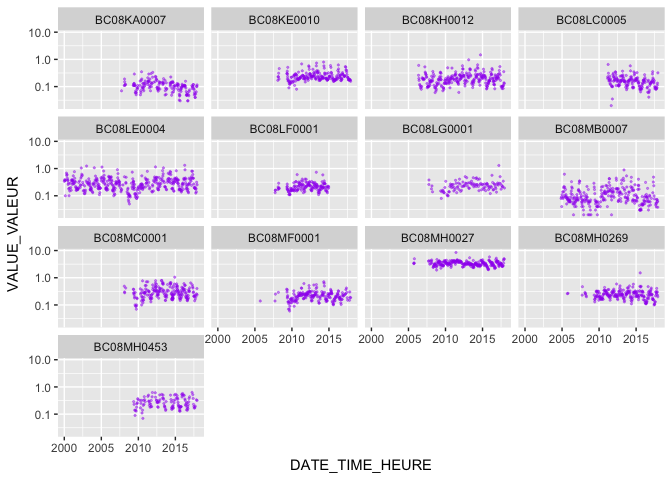
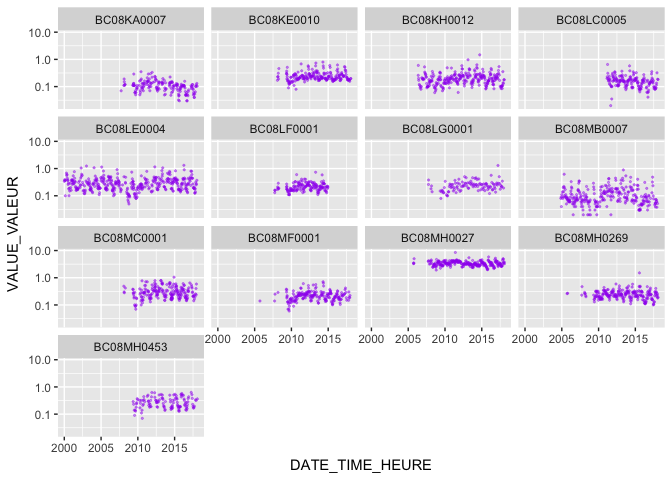
Fix and render readme

diff --git a/README.md b/README.md
@@ -1,14 +1,19 @@
 
-<a id="devex-badge" rel="Exploration" href="https://github.com/BCDevExchange/assets/blob/master/README.md"><img alt="Being designed and built, but in the lab. May change, disappear, or be buggy." style="border-width:0" src="https://assets.bcdevexchange.org/images/badges/exploration.svg" title="Being designed and built, but in the lab. May change, disappear, or be buggy." /></a> [![Travis-CI Build Status](https://travis-ci.org/bcgov/canwqdata.svg?branch=master)](https://travis-ci.org/bcgov/canwqdata)
+<a id="devex-badge" rel="Exploration" href="https://github.com/BCDevExchange/assets/blob/master/README.md"><img alt="Being designed and built, but in the lab. May change, disappear, or be buggy." style="border-width:0" src="https://assets.bcdevexchange.org/images/badges/exploration.svg" title="Being designed and built, but in the lab. May change, disappear, or be buggy." /></a>
+[![Travis-CI Build
+Status](https://travis-ci.org/bcgov/canwqdata.svg?branch=master)](https://travis-ci.org/bcgov/canwqdata)
 
-canwqdata
-=========
+# canwqdata
 
-An R 📦 to download open water quality data from Environment and Climate Change Canada's [National Long-term Water Quality Monitoring Data](http://donnees.ec.gc.ca/data/substances/monitor/national-long-term-water-quality-monitoring-data/).
+An R 📦 to download open water quality data from Environment and Climate
+Change Canada’s [National Long-term Water Quality Monitoring
+Data](http://donnees.ec.gc.ca/data/substances/monitor/national-long-term-water-quality-monitoring-data/).
 
 ### Features
 
-This package is designed to get Canadian Water Quality Monitoring data into R quickly and easily. You can get data from a single monitoring station, multiple stations, or from an entire basin.
+This package is designed to get Canadian Water Quality Monitoring data
+into R quickly and easily. You can get data from a single monitoring
+station, multiple stations, or from an entire basin.
 
 ### Installation
 
@@ -24,52 +29,54 @@ First load the package:
 library(canwqdata)
 ```
 
-The first thing you will probably want to do is get a list of the available sites and associated metadata:
+The first thing you will probably want to do is get a list of the
+available sites and associated metadata:
 
 ``` r
 sites <- wq_sites()
 
 sites
-#> # A tibble: 214 x 16
+#> # A tibble: 313 x 16
 #>    SITE_NO SITE_NAME SITE_NOM_FR SITE_TYPE SITE_DESC SITE_DESC_FR LATITUDE
 #>    <chr>   <chr>     <chr>       <chr>     <chr>     <chr>           <dbl>
-#>  1 72      BEAUHARN… CANAL DE B… RIVER/RI… <NA>      <NA>             45.2
-#>  2 75      ST.LAWRE… FLEUVE SAI… RIVER/RI… <NA>      <NA>             45.9
-#>  3 78      ST.LAWRE… FLEUVE SAI… RIVER/RI… <NA>      <NA>             45.4
-#>  4 00BR01… SAINT JO… RIVIÈRE SA… RIVER/RI… <NA>      <NA>             47.4
-#>  5 00BR01… AROOSTOO… RIVIÈRE AR… RIVER/RI… <NA>      <NA>             46.8
-#>  6 00BR01… TOBIQUE … RIVIÈRE TO… RIVER/RI… <NA>      <NA>             46.8
-#>  7 00BR01… BIG PRES… RUISSEAU B… RIVER/RI… <NA>      <NA>             46.4
-#>  8 00BR01… SAINT JO… RIVIÈRE SA… RIVER/RI… <NA>      <NA>             46.0
-#>  9 00BR01… NASHWAAK… RIVIÈRE NA… RIVER/RI… <NA>      <NA>             46.0
-#> 10 00BR01… SAINT JO… RIVIÈRE SA… RIVER/RI… <NA>      <NA>             45.6
-#> # ... with 204 more rows, and 9 more variables: LONGITUDE <dbl>,
+#>  1 000000… BEAUHARN… CANAL DE B… RIVER/RI… <NA>      <NA>             45.2
+#>  2 000000… ST.LAWRE… FLEUVE SAI… RIVER/RI… <NA>      <NA>             45.9
+#>  3 000000… ST.LAWRE… FLEUVE SAI… RIVER/RI… <NA>      <NA>             45.4
+#>  4 023300… ETCHEMIN… RIVIÈRE ET… RIVER/RI… <NA>      <NA>             46.8
+#>  5 023400… CHAUDIÈR… RIVIÈRE CH… RIVER/RI… <NA>      <NA>             46.7
+#>  6 024000… BÉCANCOU… RIVIÈRE BÉ… RIVER/RI… <NA>      <NA>             46.4
+#>  7 030200… MAGOG RI… RIVIÈRE MA… RIVER/RI… <NA>      <NA>             45.3
+#>  8 030203… COATICOO… RIVIÈRE CO… RIVER/RI… <NA>      <NA>             45.3
+#>  9 030400… RICHELIE… RIVIÈRE RI… RIVER/RI… <NA>      <NA>             45.4
+#> 10 030400… RICHELIE… RIVIÈRE RI… RIVER/RI… <NA>      <NA>             45.1
+#> # ... with 303 more rows, and 9 more variables: LONGITUDE <dbl>,
 #> #   DATUM <chr>, PROV_TERR <chr>, PEARSEDA <chr>, PEARSEDA_FR <chr>,
 #> #   OCEANDA <chr>, OCEANDA_FR <chr>, DATA_URL <chr>, DATA_URL_FR <chr>
 ```
 
 Then get some data from a particular station:
 
-`AL07AA0015` is a site in Alberta called *Athabasca River above Athabasca Falls*
+`AL07AA0015` is a site in Alberta called *Athabasca River above
+Athabasca Falls*
 
 ``` r
-athabasca_falls <- dl_sites("AL07AA0015")
+athabasca_falls <- wq_site_data("AL07AA0015")
 
 athabasca_falls
-#> # A tibble: 7,931 x 11
+#> # A tibble: 9,955 x 11
 #>    SITE_NO  DATE_TIME_HEURE     FLAG_MARQUEUR VALUE_VALEUR SDL_LDE MDL_LDM
 #>    <chr>    <dttm>              <chr>                <dbl>   <dbl>   <dbl>
 #>  1 AL07AA0… 2000-01-11 13:05:00 <NA>             93.2           NA      NA
 #>  2 AL07AA0… 2000-01-11 13:05:00 <                 0.0200        NA      NA
 #>  3 AL07AA0… 2000-01-11 13:05:00 <                 0.00500       NA      NA
-#>  4 AL07AA0… 2000-01-11 13:05:00 <                 0.000100      NA      NA
-#>  5 AL07AA0… 2000-01-11 13:05:00 <NA>              0.0650        NA      NA
-#>  6 AL07AA0… 2000-01-11 13:05:00 <                 0.500         NA      NA
-#>  7 AL07AA0… 2000-01-11 13:05:00 <                 0.00200       NA      NA
-#>  8 AL07AA0… 2000-01-11 13:05:00 <                 0.00100       NA      NA
-#>  9 AL07AA0… 2000-01-11 13:05:00 <NA>             29.0           NA      NA
-#> 10 AL07AA0… 2000-01-11 13:05:00 <NA>              0.451         NA      NA
-#> # ... with 7,921 more rows, and 5 more variables: VMV_CODE <int>,
+#>  4 AL07AA0… 2000-01-11 13:05:00 <NA>              0.            NA      NA
+#>  5 AL07AA0… 2000-01-11 13:05:00 <                 0.000100      NA      NA
+#>  6 AL07AA0… 2000-01-11 13:05:00 <NA>              0.0650        NA      NA
+#>  7 AL07AA0… 2000-01-11 13:05:00 <                 0.500         NA      NA
+#>  8 AL07AA0… 2000-01-11 13:05:00 <NA>            114.            NA      NA
+#>  9 AL07AA0… 2000-01-11 13:05:00 <                 0.00200       NA      NA
+#> 10 AL07AA0… 2000-01-11 13:05:00 <                 0.00100       NA      NA
+#> # ... with 9,945 more rows, and 5 more variables: VMV_CODE <chr>,
 #> #   UNIT_UNITE <chr>, VARIABLE <chr>, VARIABLE_FR <chr>,
 #> #   STATUS_STATUT <chr>
 ```
@@ -77,28 +84,29 @@ athabasca_falls
 We can also get data from more than one station:
 
 ``` r
-dl_sites(c("YT09FC0002", "00BR01AG0008"))
-#> # A tibble: 2,092 x 11
+wq_site_data(c("YT09FC0002", "SA05JM0014"))
+#> # A tibble: 20,854 x 11
 #>    SITE_NO  DATE_TIME_HEURE     FLAG_MARQUEUR VALUE_VALEUR SDL_LDE MDL_LDM
 #>    <chr>    <dttm>              <chr>                <dbl>   <dbl>   <dbl>
-#>  1 YT09FC0… 2007-08-27 16:35:00 <NA>              83.9     0.500        NA
-#>  2 YT09FC0… 2007-08-27 16:35:00 <NA>              74.6     0.200        NA
-#>  3 YT09FC0… 2007-08-27 16:35:00 <NA>               0.132   0.00100      NA
-#>  4 YT09FC0… 2007-08-27 16:35:00 <NA>               0.790   0.0100       NA
-#>  5 YT09FC0… 2007-08-27 16:35:00 <NA>              61.5     0.0500       NA
-#>  6 YT09FC0… 2007-08-27 16:35:00 <NA>               0.0120  0.00100      NA
-#>  7 YT09FC0… 2007-08-27 16:35:00 <NA>               0.00500 0.00100      NA
-#>  8 YT09FC0… 2007-08-27 16:35:00 <NA>               6.00    0.500        NA
-#>  9 YT09FC0… 2007-08-27 16:35:00 <NA>               0.00900 0.00100      NA
-#> 10 YT09FC0… 2007-08-27 16:35:00 <NA>              30.6     0.100        NA
-#> # ... with 2,082 more rows, and 5 more variables: VMV_CODE <int>,
+#>  1 SA05JM0… 2000-03-07 12:45:00 <NA>               0.           NA      NA
+#>  2 SA05JM0… 2000-03-07 12:45:00 <NA>             253.           NA      NA
+#>  3 SA05JM0… 2000-03-07 12:45:00 <NA>               0.0470       NA      NA
+#>  4 SA05JM0… 2000-03-07 12:45:00 <NA>               0.607        NA      NA
+#>  5 SA05JM0… 2000-03-07 12:45:00 <NA>               0.0790       NA      NA
+#>  6 SA05JM0… 2000-03-07 12:45:00 <NA>               0.00100      NA      NA
+#>  7 SA05JM0… 2000-03-07 12:45:00 <NA>               0.0390       NA      NA
+#>  8 SA05JM0… 2000-03-07 12:45:00 <NA>               0.0569       NA      NA
+#>  9 SA05JM0… 2000-03-07 12:45:00 <                  0.500        NA      NA
+#> 10 SA05JM0… 2000-03-07 12:45:00 <                  0.0500       NA      NA
+#> # ... with 20,844 more rows, and 5 more variables: VMV_CODE <chr>,
 #> #   UNIT_UNITE <chr>, VARIABLE <chr>, VARIABLE_FR <chr>,
 #> #   STATUS_STATUT <chr>
 ```
 
 Or an entire basin:
 
-The basins are in the `PEARSEDA` column of the data.frame returned by `wq_sites()`:
+The basins are in the `PEARSEDA` column of the data.frame returned by
+`wq_sites()`:
 
 ``` r
 basins <- sort(unique(sites$PEARSEDA))
@@ -116,7 +124,7 @@ basins
 #> [21] "ST. LAWRENCE"              "WINNIPEG"                 
 #> [23] "YUKON"
 
-fraser <- dl_basin("FRASER-LOWER MAINLAND")
+fraser <- wq_basin_data("FRASER-LOWER MAINLAND")
 ```
 
 Do some quick summary stats of the fraser dataset:
@@ -133,45 +141,47 @@ fraser %>%
 #> # A tibble: 13 x 5
 #>    SITE_NO  first_date          latest_date         n_params total_samples
 #>    <chr>    <dttm>              <dttm>                 <int>         <int>
-#>  1 BC08KA0… 2000-01-12 07:45:00 2017-12-05 13:54:00      108         22937
-#>  2 BC08KE0… 2000-01-05 00:00:00 2017-12-05 09:30:00       76         21155
-#>  3 BC08KH0… 2006-05-11 13:07:00 2017-12-07 10:50:00      142         16784
-#>  4 BC08LC0… 2011-02-24 09:45:00 2017-12-11 13:38:00       68          9542
-#>  5 BC08LE0… 2000-01-04 10:00:00 2017-12-06 11:00:00      112         20956
+#>  1 BC08KA0… 2000-01-12 07:45:00 2018-01-22 14:03:00      108         23161
+#>  2 BC08KE0… 2000-01-05 00:00:00 2018-01-29 10:00:00       76         21413
+#>  3 BC08KH0… 2006-05-11 13:07:00 2018-01-21 10:45:00      142         17039
+#>  4 BC08LC0… 2011-02-24 09:45:00 2018-02-01 12:20:00       69          9770
+#>  5 BC08LE0… 2000-01-04 10:00:00 2018-01-10 12:00:00      112         21202
 #>  6 BC08LF0… 2000-01-05 12:00:00 2014-12-15 10:20:00       89         18410
-#>  7 BC08LG0… 2003-06-24 10:45:00 2017-12-18 10:40:00       71          8995
-#>  8 BC08MB0… 2004-11-15 12:00:00 2017-12-06 09:30:00      105         19058
-#>  9 BC08MC0… 2000-04-18 16:30:00 2017-12-06 14:57:00      107         20153
-#> 10 BC08MF0… 2000-01-04 14:10:00 2017-12-06 08:20:00      128         20374
-#> 11 BC08MH0… 2000-01-07 12:16:00 2017-12-05 12:30:00      115         30018
-#> 12 BC08MH0… 2004-03-03 14:40:00 2017-12-06 08:20:00      135         23014
-#> 13 BC08MH0… 2008-09-02 16:25:00 2017-12-06 13:55:00      107         11235
+#>  7 BC08LG0… 2003-06-24 10:45:00 2017-12-18 10:40:00       71          9067
+#>  8 BC08MB0… 2004-11-15 12:00:00 2018-01-09 12:32:00      105         19324
+#>  9 BC08MC0… 2000-04-18 16:30:00 2017-12-18 08:21:00      107         20282
+#> 10 BC08MF0… 2000-01-04 14:10:00 2017-12-18 13:09:00      128         20467
+#> 11 BC08MH0… 2000-01-07 12:16:00 2018-02-01 11:30:00      115         30471
+#> 12 BC08MH0… 2004-03-03 14:40:00 2018-01-31 10:52:00      135         23286
+#> 13 BC08MH0… 2008-09-02 16:25:00 2018-01-31 11:15:00      107         11329
 ```
 
-We can also look at metadata that helps us understand what is in the different columns.
+We can also look at metadata that helps us understand what is in the
+different columns.
 
-`wq_params()` returns a list of water quality parameters (variables), and related data - units, methods, codes, etc:
+`wq_params()` returns a list of water quality parameters (variables),
+and related data - units, methods, codes, etc:
 
 ``` r
 params <- wq_params()
 glimpse(params)
-#> Observations: 1,155
+#> Observations: 1,613
 #> Variables: 12
-#> $ VMV_CODE         <int> 77, 78, 79, 80, 157, 160, 201, 202, 210, 211,...
-#> $ VARIABLE_CODE    <int> 635, 365, 4541, 414, 864, 1073, 837, 837, 762...
-#> $ VARIABLE         <chr> "NITROGEN TOTAL", "ALKALINITY TOTAL HCO3", "C...
-#> $ VARIABLE_FR      <chr> "AZOTE TOTAL", "ALCALINITÉ TOTALE HCO3", "CHL...
-#> $ VARIABLE_TYPE    <chr> "NITROGEN", "PHYSICAL", "CHLOROPHYLL", "CHLOR...
-#> $ VARIABLE_TYPE_FR <chr> "AZOTE", "PHYSIQUE", "CHLOROPHYLLE", "CHLOROP...
-#> $ UNIT_UNITÉ       <chr> "MG/L", "MG/L", "UG/L", "UG/L", "NTU", "MG/L"...
-#> $ UNIT_NAME        <chr> "MILLIGRAMS PER LITRE", "MILLIGRAMS PER LITRE...
-#> $ UNITÉ_NOM        <chr> "MILLIGRAMMES PAR LITRE", "MILLIGRAMMES PAR L...
-#> $ METHOD_CODE      <int> 23, 30, 35, 41, 188, 189, 8, 9, 15, 16, 617, ...
-#> $ METHOD_TITLE     <chr> "TOTAL NITROGEN MEASUREMENT BY PERSULFATE OXI...
-#> $ MÉTHODE_TITRE    <chr> "AZOTE TOTAL PAR LA MÉTHODE D'OXYDATION AU PE...
+#> $ VMV_CODE                <chr> "77", "78", "79", "80", "157", "160", ...
+#> $ NATIONAL_VARIABLE_CODE  <chr> "635", "365", "4541", "414", "864", "1...
+#> $ VARIABLE_COMMON_NAME    <chr> "NITROGEN TOTAL", "ALKALINITY TOTAL HC...
+#> $ VARIABLE_COMMON_NAME_FR <chr> "AZOTE TOTAL", "ALCALINITÉ TOTALE HCO3...
+#> $ VARIABLE_TYPE           <chr> "NITROGEN", "PHYSICAL", "CHLOROPHYLL",...
+#> $ VARIABLE_TYPE_FR        <chr> "AZOTE", "PHYSIQUE", "CHLOROPHYLLE", "...
+#> $ MEASUREMENT_UNIT        <chr> "MG/L", "MG/L", "µG/L", "µG/L", "NTU",...
+#> $ DESCRIPTION             <chr> "MILLIGRAM PER LITER", "MILLIGRAM PER ...
+#> $ DESCRIPTION_FR          <chr> "MILLIGRAMME PAR LITRE", "MILLIGRAMME ...
+#> $ NATIONAL_METHOD_CODE    <chr> "23", "30", "35", "41", "188", "189", ...
+#> $ METHOD_TITLE            <chr> "TOTAL NITROGEN MEASUREMENT BY PERSULF...
+#> $ METHOD_TITLE_FR         <chr> "AZOTE TOTAL PAR LA MÉTHODE D'OXYDATIO...
 
-# wq_param_desc shows the column headings ((in all other tables) and what they mean
-wq_param_desc() %>% 
+# wq_param_desc shows the column headings (in all other tables) and what they mean
+wq_data_desc() %>% 
   glimpse()
 #> Observations: 39
 #> Variables: 5
@@ -182,13 +192,14 @@ wq_param_desc() %>%
 #> $ COL_DESCRIPTION_FR <chr> "DESCRIPTION DE L'EN-TÊTE DE COLONNE", "DES...
 ```
 
-Let's look at Total Nitrogen in the Fraser basin:
+Let’s look at Total Nitrogen in the Fraser basin:
 
 ``` r
 fraser_n_total <- fraser %>% filter(VARIABLE == "NITROGEN TOTAL")
 ```
 
-Now lets do some plotting - plot Total Nitrogen over time at all the sites, (plot it on a log scale so that they all fit)
+Now lets do some plotting - plot Total Nitrogen over time at all the
+sites, (plot it on a log scale so that they all fit)
 
 ``` r
 library(ggplot2)
@@ -199,19 +210,19 @@ ggplot(fraser_n_total, aes(x = DATE_TIME_HEURE, y = VALUE_VALEUR)) +
   scale_y_log10()
 ```
 
-![](tools/readme/unnamed-chunk-10-1.png)
+![](tools/readme/unnamed-chunk-10-1.png)<!-- -->
 
-It's also possible to download data from an entire province:
+It’s also possible to download data from an entire province:
 
 ``` r
 bc_sites <- sites %>% 
   filter(PROV_TERR == "BC") %>% 
   pull(SITE_NO)
 
-all_bc_data <- dl_sites(bc_sites)
+all_bc_data <- wq_site_data(bc_sites)
 
 glimpse(all_bc_data)
-#> Observations: 817,921
+#> Observations: 826,612
 #> Variables: 11
 #> $ SITE_NO         <chr> "BC07FD0005", "BC07FD0005", "BC07FD0005", "BC0...
 #> $ DATE_TIME_HEURE <dttm> 2000-02-01 11:21:00, 2000-02-01 11:21:00, 200...
@@ -219,7 +230,7 @@ glimpse(all_bc_data)
 #> $ VALUE_VALEUR    <dbl> 0.0550, 0.0002, 0.0351, 0.0500, 0.0001, 28.200...
 #> $ SDL_LDE         <dbl> 0.0020, 0.0001, 0.0002, 0.0500, 0.0001, 0.1000...
 #> $ MDL_LDM         <dbl> NA, NA, NA, NA, NA, NA, NA, NA, NA, NA, NA, NA...
-#> $ VMV_CODE        <int> 100216, 100250, 100217, 100218, 100219, 1143, ...
+#> $ VMV_CODE        <chr> "100216", "100250", "100217", "100218", "10021...
 #> $ UNIT_UNITE      <chr> "MG/L", "MG/L", "MG/L", "UG/L", "MG/L", "MG/L"...
 #> $ VARIABLE        <chr> "ALUMINUM TOTAL", "ARSENIC TOTAL", "BARIUM TOT...
 #> $ VARIABLE_FR     <chr> "ALUMINIUM TOTAL", "ARSENIC TOTAL", "BARYUM TO...
@@ -232,28 +243,35 @@ Under development, but ready for use and testing.
 
 ### Getting Help or Reporting an Issue
 
-To report bugs/issues/feature requests, please file an [issue](https://github.com/bcgov/canwqdata/issues/).
+To report bugs/issues/feature requests, please file an
+[issue](https://github.com/bcgov/canwqdata/issues/).
 
 ### How to Contribute
 
-If you would like to contribute to the package, please see our [CONTRIBUTING](CONTRIBUTING.md) guidelines.
+If you would like to contribute to the package, please see our
+[CONTRIBUTING](CONTRIBUTING.md) guidelines.
 
-Please note that this project is released with a [Contributor Code of Conduct](CODE_OF_CONDUCT.md). By participating in this project you agree to abide by its terms.
+Please note that this project is released with a [Contributor Code of
+Conduct](CODE_OF_CONDUCT.md). By participating in this project you agree
+to abide by its terms.
 
 ### License
 
     Copyright 2018 Province of British Columbia
-
+    
     Licensed under the Apache License, Version 2.0 (the "License");
     you may not use this file except in compliance with the License.
     You may obtain a copy of the License at 
-
+    
        http://www.apache.org/licenses/LICENSE-2.0
-
+    
     Unless required by applicable law or agreed to in writing, software
     distributed under the License is distributed on an "AS IS" BASIS,
     WITHOUT WARRANTIES OR CONDITIONS OF ANY KIND, either express or implied.
     See the License for the specific language governing permissions and
     limitations under the License.
 
-This repository is maintained by [Environmental Reporting BC](http://www2.gov.bc.ca/gov/content?id=FF80E0B985F245CEA62808414D78C41B). Click [here](https://github.com/bcgov/EnvReportBC-RepoList) for a complete list of our repositories on GitHub.
+This repository is maintained by [Environmental Reporting
+BC](http://www2.gov.bc.ca/gov/content?id=FF80E0B985F245CEA62808414D78C41B).
+Click [here](https://github.com/bcgov/EnvReportBC-RepoList) for a
+complete list of our repositories on GitHub.
